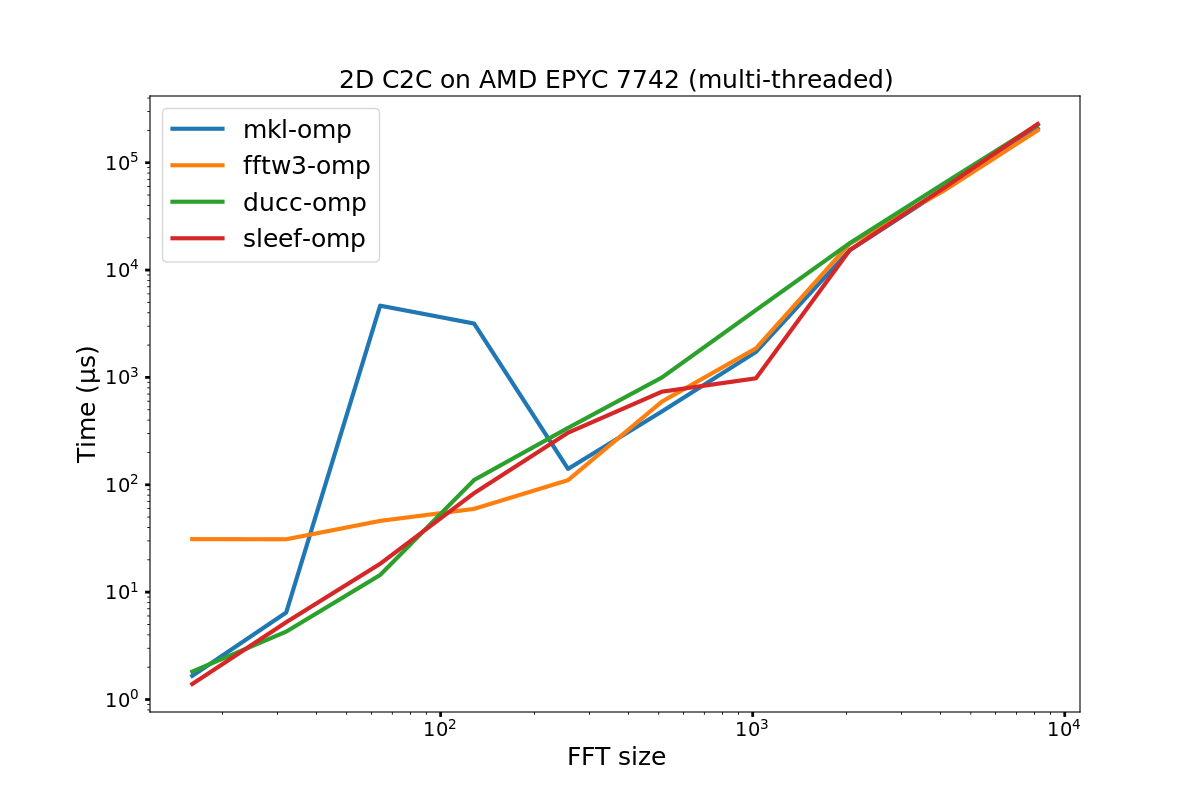
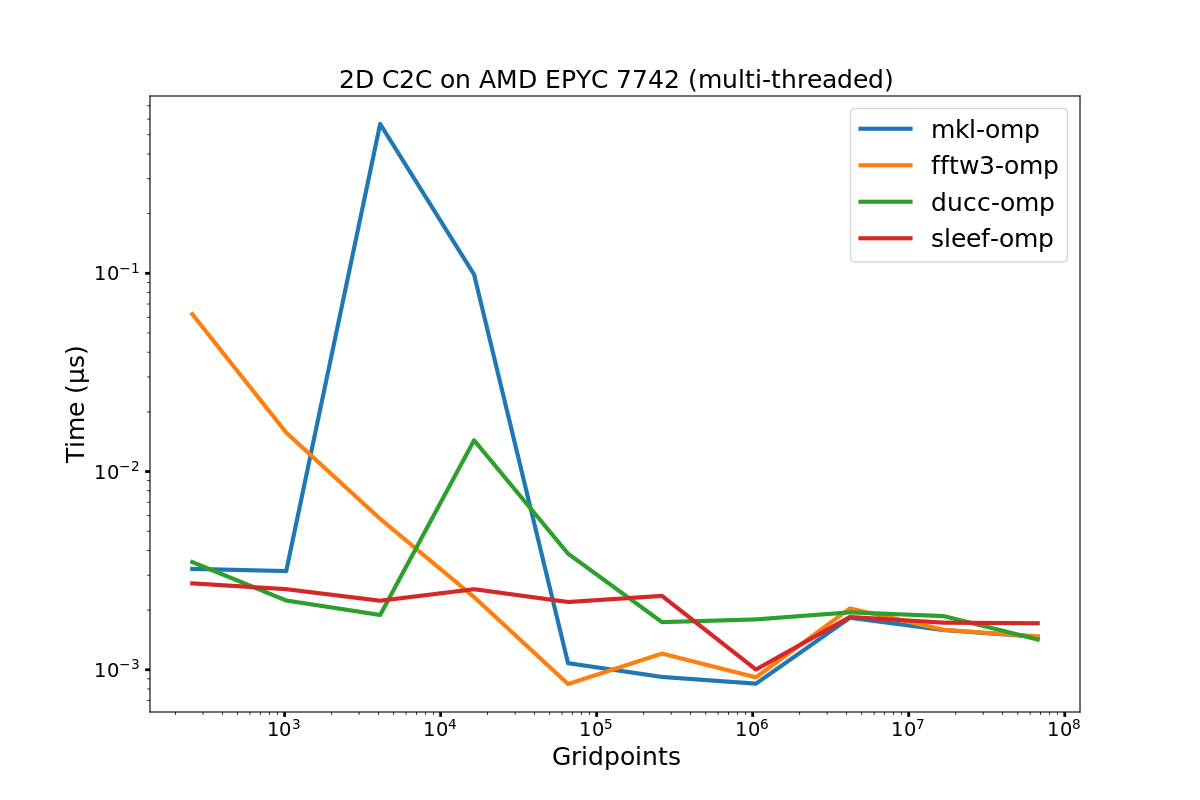
Change plots to be normalized by gridpoints #5

diff --git a/fi/collect_results.py b/fi/collect_results.py
@@ -15,7 +15,8 @@ mainfont = {
     'size': 18,
 }
 
-arches = ['rome', 'skylake', 'icelake']
+arches = ['rome', 'skylake', # 'icelake'
+          ]
 implementations = ['mkl', 'fftw3', 'mkl-omp', 'fftw3-omp', 'pocket', 'kiss', 'ducc', 'ducc-omp', 'sleef', 'sleef-omp']
 
 cpu_data = {
@@ -53,10 +54,12 @@ def plot_st_dim(dim: int):
                 continue
             sizes, _, timings = params
             if len(sizes):
+                sizes = [size ** dim for size in sizes]
+                timings = [dt / size / dim for dt, size in zip(timings, sizes)]
                 plt.loglog(sizes, timings, label=impl, linewidth=3)
 
         plt.title(f"{dim}D C2C on {cpu_data[arch]} (single-threaded)", fontdict=mainfont)
-        plt.xlabel("FFT size", fontdict=mainfont)
+        plt.xlabel("Gridpoints", fontdict=mainfont)
         plt.ylabel("Time (µs)", fontdict=mainfont)
         ax.tick_params(labelsize=14, width=2)
 
@@ -74,9 +77,11 @@ def plot_mt_dim(dim: int):
                 continue
             sizes, _, timings = params
             if len(sizes):
+                sizes = [size ** dim for size in sizes]
+                timings = [dt / size / dim for dt, size in zip(timings, sizes)]
                 plt.loglog(sizes, timings, label=impl, linewidth=3)
         plt.title(f"{dim}D C2C on {cpu_data[arch]} (multi-threaded)", fontdict=mainfont)
-        plt.xlabel("FFT size", fontdict=mainfont)
+        plt.xlabel("Gridpoints", fontdict=mainfont)
         plt.ylabel("Time (µs)", fontdict=mainfont)
         ax.tick_params(labelsize=14, width=2)
 

diff --git a/README.md b/README.md
@@ -16,17 +16,17 @@ using `gcc 12.2.0`. All benchmarks are compiled with native instructions enabled
 ### 1D
 ![](fi/1d_c2c_st_rome.png)
 ![](fi/1d_c2c_st_skylake.png)
-![](fi/1d_c2c_st_icelake.png)
+<!-- ![](fi/1d_c2c_st_icelake.png) -->
 
 ### 2D
 ![](fi/2d_c2c_st_rome.png)
 ![](fi/2d_c2c_st_skylake.png)
-![](fi/2d_c2c_st_icelake.png)
+<!-- ![](fi/2d_c2c_st_icelake.png) -->
 
 ### 3D
 ![](fi/3d_c2c_st_rome.png)
 ![](fi/3d_c2c_st_skylake.png)
-![](fi/3d_c2c_st_icelake.png)
+<!-- ![](fi/3d_c2c_st_icelake.png) -->
 
 
 ## Multi threaded results
@@ -49,7 +49,7 @@ Note that KISS has openmp enabled, but I didn't do a separate build for it. Give
 ### 1D
 ![](fi/1d_c2c_mt_rome.png)
 ![](fi/1d_c2c_mt_skylake.png)
-![](fi/1d_c2c_mt_icelake.png)
+<!-- ![](fi/1d_c2c_mt_icelake.png) -->
 
 ### 2D
 Note the AMD measurements are not in error. This really happens consistently. MKL is very
@@ -57,9 +57,9 @@ unhappy with more than 16 threads for these particular sizes in 2D.
 
 ![](fi/2d_c2c_mt_rome.png)
 ![](fi/2d_c2c_mt_skylake.png)
-![](fi/2d_c2c_mt_icelake.png)
+<!-- ![](fi/2d_c2c_mt_icelake.png) -->
 
 ### 3D
 ![](fi/3d_c2c_mt_rome.png)
 ![](fi/3d_c2c_mt_skylake.png)
-![](fi/3d_c2c_mt_icelake.png)
+<!-- ![](fi/3d_c2c_mt_icelake.png) -->
